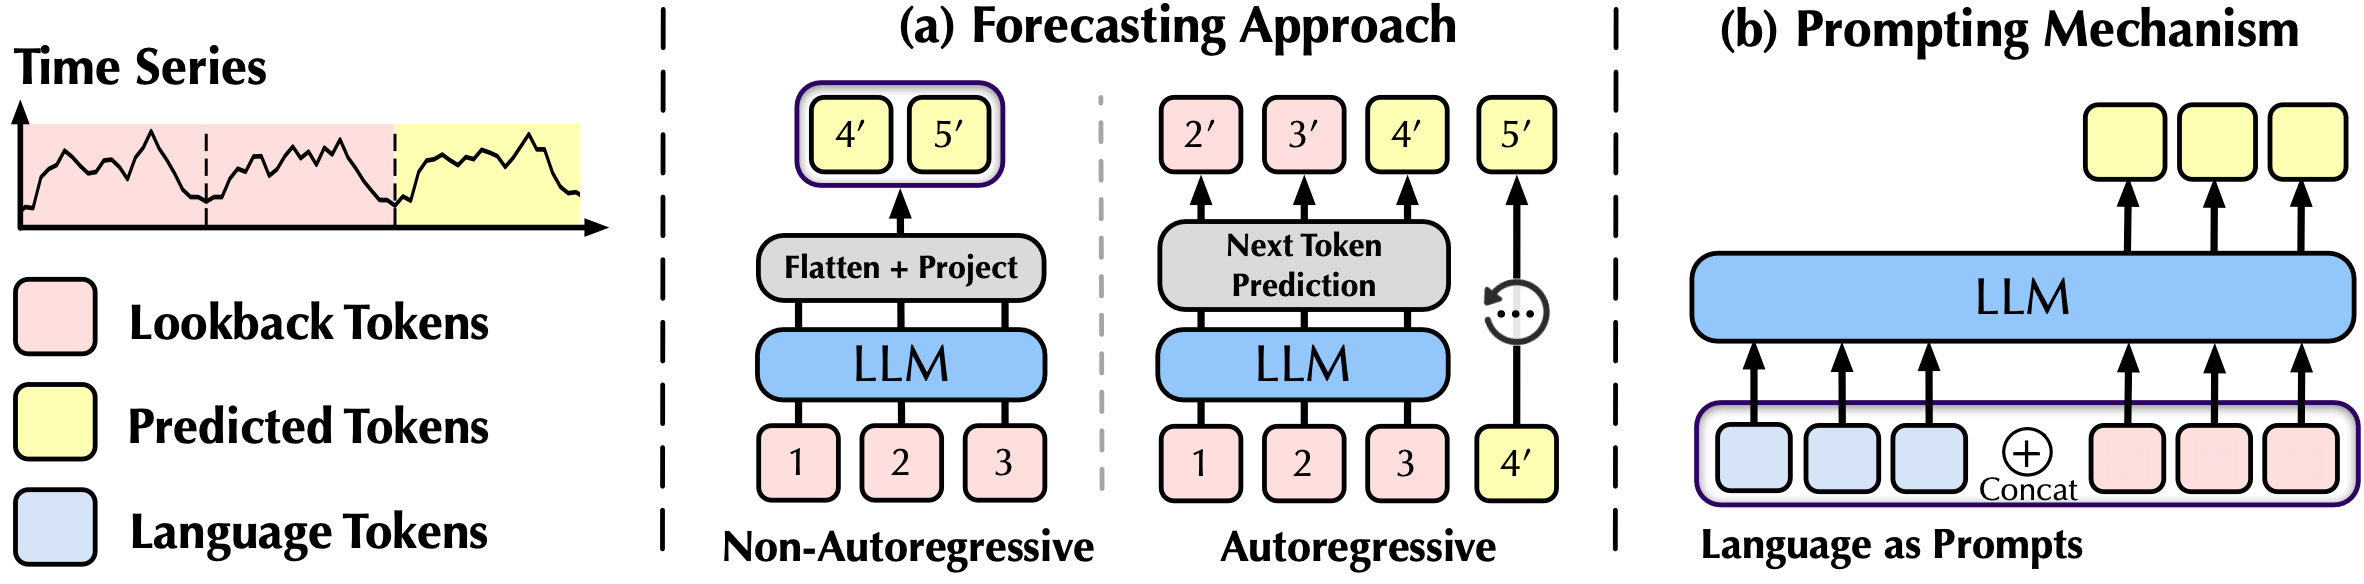
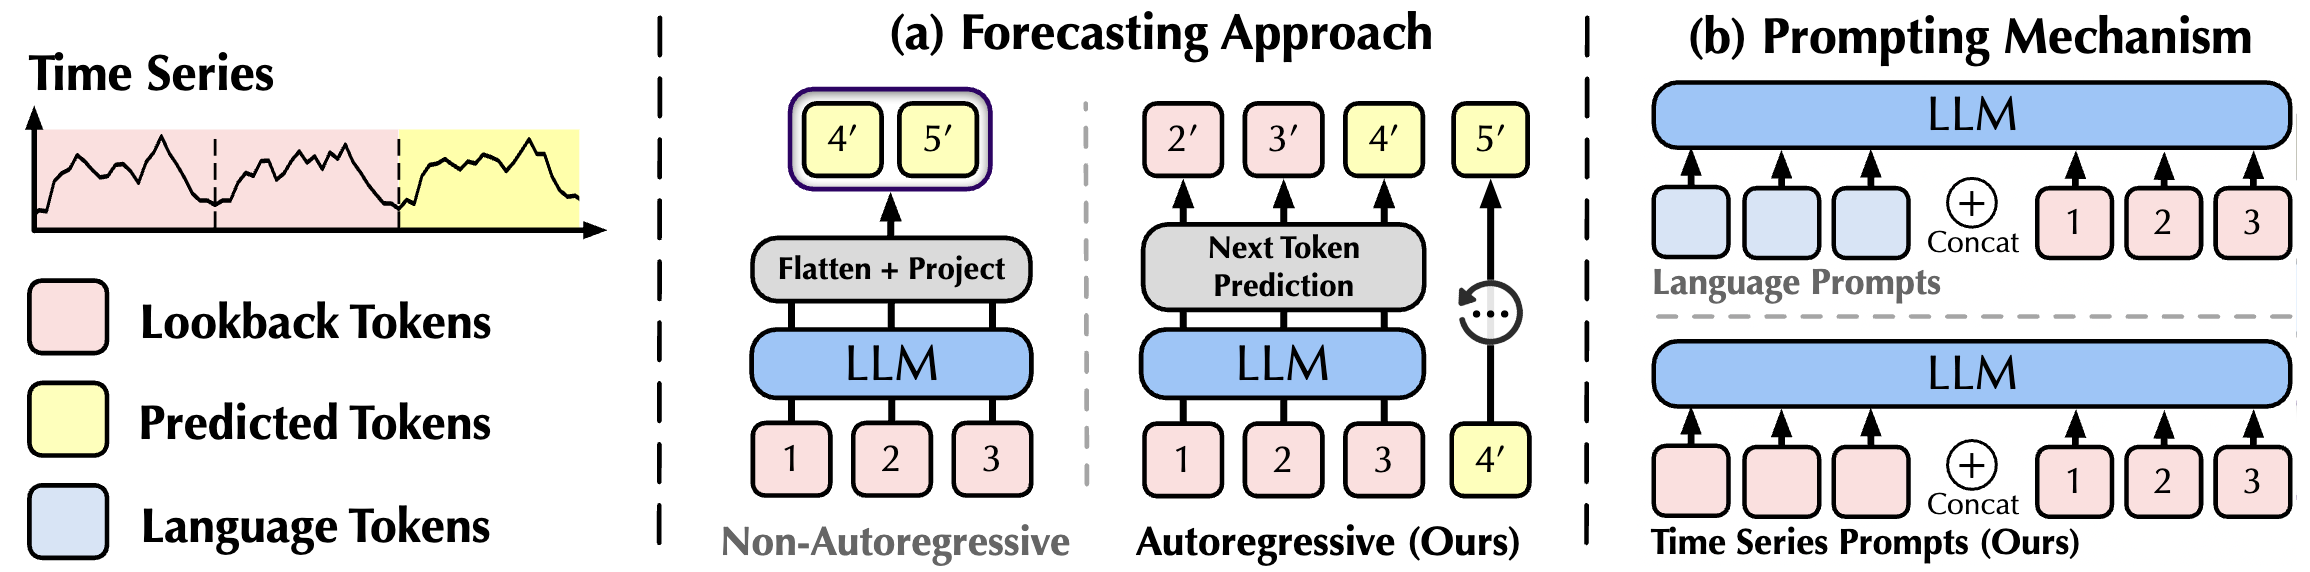
update readme

diff --git a/README.md b/README.md
@@ -157,23 +157,7 @@ Not only does AutoTime achieve more acurate predcitions but its training and rea
 <img src="./figures/adaption_efficiency.png"  alt="" align=center />
 </p>
 
-## Textual Timestamps as Position Embedding
-
-We conduct ablations our position embedding of textual timestamps. The performance is consistently promoted because of the positional alignment of multivariate time series.
-
-<p align="center">
-<img src="./figures/ablation.png" alt="" align=center />
-</p>
-
-## Flexible Input Length
-
-In the conventional paradigm, deep forecasters are trained respectively, limiting their versatility. In contrast, our forecasters handle various input lengths with one model.
-
-<p align="center">
-<img src="./figures/lookback.png" alt="" align=center />
-</p>
-
-## Low-rank Adaption
+## Low-Rank Adaption
 
 By incorporating [LoRA](https://arxiv.org/abs/2106.09685), the token transition of LLMs can be better aligned to the time series modality with improved performance.
 
